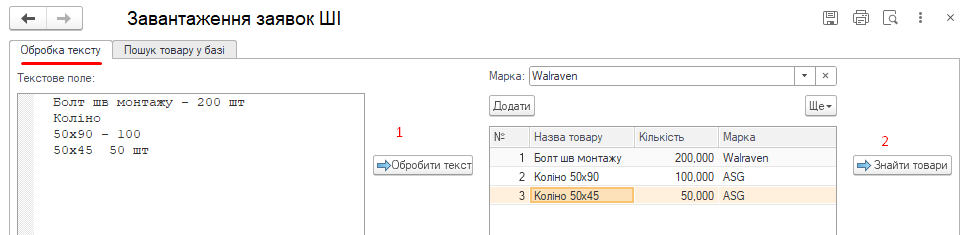
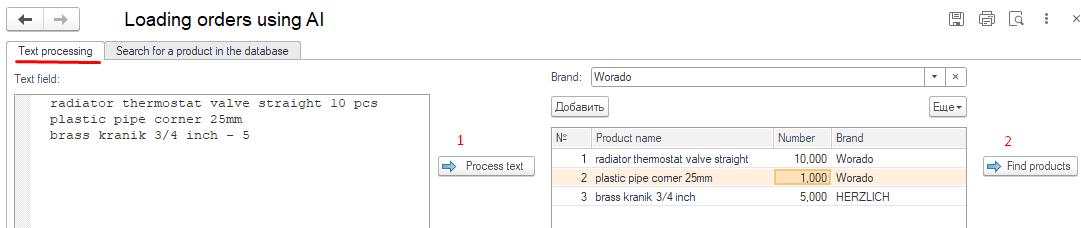
LICENSE.txt,README.md, foto

Changed region(s): [[0.0, 0.0, 1.0, 1.0], [0.8402, 0.0307, 1.0, 0.1228]]

diff --git a/README.md b/README.md
@@ -15,7 +15,7 @@ This project provides an end-to-end pipeline that:
 3. **Matches** each item against the product catalog using vector similarity search
 4. **Returns** the best matches with confidence scores
 
-## 🏗 Architecture1
+## 🏗 Architecture
 ```
 ┌─────────────┐       ┌──────────────┐     ┌─────────────┐
 │ 1C ERP      │────▶ │ FastAPI      │────▶│ Mistral AI  │
